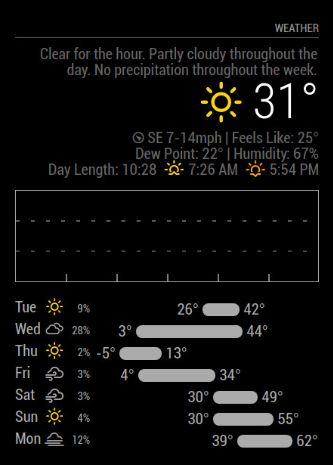
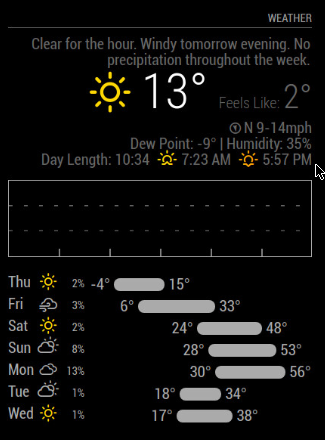
Made the "Feels Like" temp a bit more noticable

diff --git a/MMM-forecast-io.js b/MMM-forecast-io.js
@@ -168,6 +168,8 @@ Module.register("MMM-forecast-io", {
     var large = document.createElement("div");
     large.className = "large light";
 
+//========== Current Weather
+
     var icon = currentWeather ? currentWeather.icon : hourly.icon;
     var iconClass = this.config.iconTable[icon];
     var icon = document.createElement("span");
@@ -179,17 +181,20 @@ Module.register("MMM-forecast-io", {
     temperature.innerHTML = " " + this.temp + "&deg;" + " ";
     large.appendChild(temperature);
 
-    if (this.roomTemperature !== undefined) {
-      var icon = document.createElement("span");
-      icon.className = 'fa fa-home';
-      large.appendChild(icon);
+//========== Feels Like Temp
 
-      var temperature = document.createElement("span");
-      temperature.className = "bright";
-      temperature.innerHTML = " " + this.roomTemperature + "&deg;";
-      large.appendChild(temperature);
-    }
+    var feelsLike = document.createElement("span");
+    feelsLike.className = "small dimmed";
+    feelsLike.innerHTML = "Feels Like: ";
+    large.appendChild(feelsLike);
 
+    var feelsLike = document.createElement("span");
+    feelsLike.className = "mlarge dimmed";
+    feelsLike.innerHTML = " " + Math.round(currentWeather.apparentTemperature) + "&deg;";
+    large.appendChild(feelsLike);
+
+//========== Wind
+    
     var wind = document.createElement("div");
     wind.className = "small dimmed wind";
 
@@ -206,8 +211,10 @@ Module.register("MMM-forecast-io", {
       var windSpeedUnit = "mph";
     }
 
-    windSpeed.innerHTML = " " + cardinalDirection + " " + Math.round(currentWeather.windSpeed) + "-" + Math.round(currentWeather.windGust) + windSpeedUnit + " | Feels Like: " + Math.round(currentWeather.apparentTemperature) + "&deg;";
+    windSpeed.innerHTML = " " + cardinalDirection + " " + Math.round(currentWeather.windSpeed) + "-" + Math.round(currentWeather.windGust) + windSpeedUnit;
     wind.appendChild(windSpeed);
+
+//========== Humidity and Dew Point
 
     var humidityDew = document.createElement("div");
     humidityDew.className = "small dimmed humidity-dew-point";
@@ -227,6 +234,8 @@ Module.register("MMM-forecast-io", {
     var humidity = document.createElement("span");
     humidity.innerHTML = "Humidity: " + this.weatherData.currently.humidity * 100 + "%";
     humidityDew.appendChild(humidity);
+    
+//========= Sunrise/Sunset/Day Length    
     
     var sunriseSunset = document.createElement("div");
     sunriseSunset.className = "small dimmed sunrise-sunset";
@@ -251,6 +260,8 @@ Module.register("MMM-forecast-io", {
     sunsetTime.innerHTML = moment(new Date(daily.data[0].sunsetTime * 1000)).format("LT") + " ";
     sunriseSunset.appendChild(sunsetTime);
 
+//========== Weather Alerts
+
     var weatherAlerts = document.createElement("div");
     weatherAlerts.className = "small bright weather-alert";
  
@@ -261,9 +272,11 @@ Module.register("MMM-forecast-io", {
       weatherAlerts.appendChild(warningIcon);
       
       var alert = document.createElement("span");
-      alert.innerHTML = " " + this.weatherData.alerts[0].title + " - " + " Expires: " + moment(new Date(this.weatherData.alerts[0].expires * 1000)).format("MMM DD hh:mm A");
+      alert.innerHTML = " " + this.weatherData.alerts[0].title + " - " + " Ends: " + moment(new Date(this.weatherData.alerts[0].expires * 1000)).format("MMM DD hh:mm A");
       weatherAlerts.appendChild(alert);
     }
+
+//========== Weather Summary
         
     var summaryText = this.weatherData.minutely.summary + " " + this.weatherData.hourly.summary + " " + this.weatherData.daily.summary;
     var summary = document.createElement("div");
@@ -315,7 +328,7 @@ Module.register("MMM-forecast-io", {
   renderPrecipitationGraph: function () {
     var i;
     var width = this.config.precipitationGraphWidth;
-    var height = Math.round(width * 0.3);
+    var height = Math.round(width * 0.25);
     var element = document.createElement('canvas');
     element.className = "precipitation-graph";
     element.width  = width;
